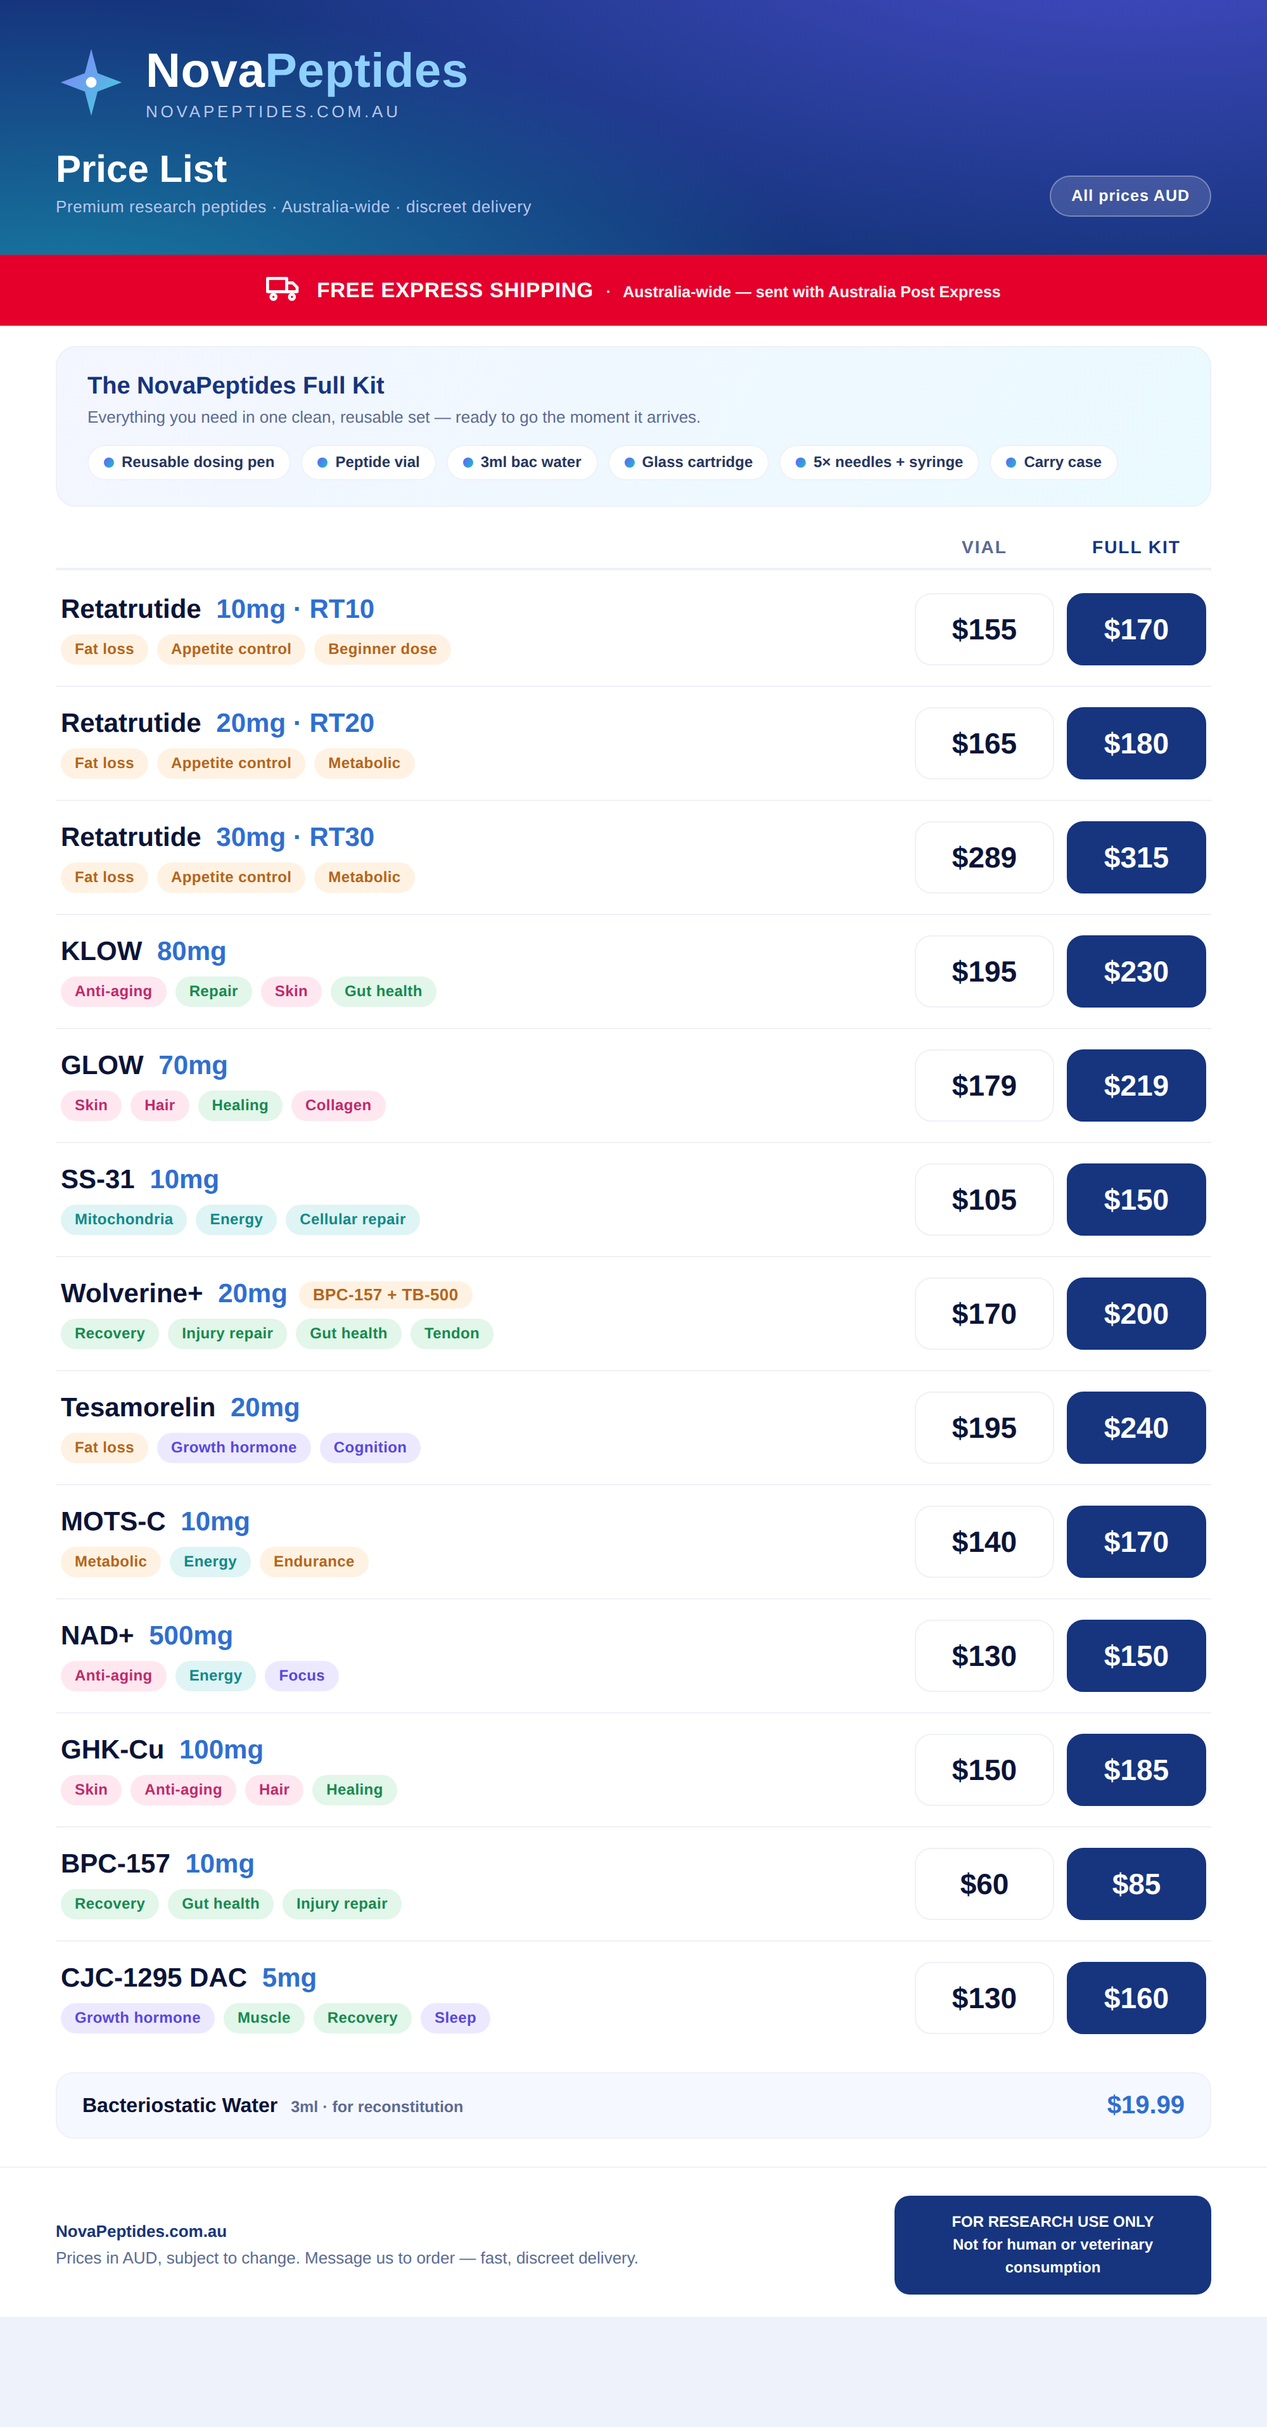
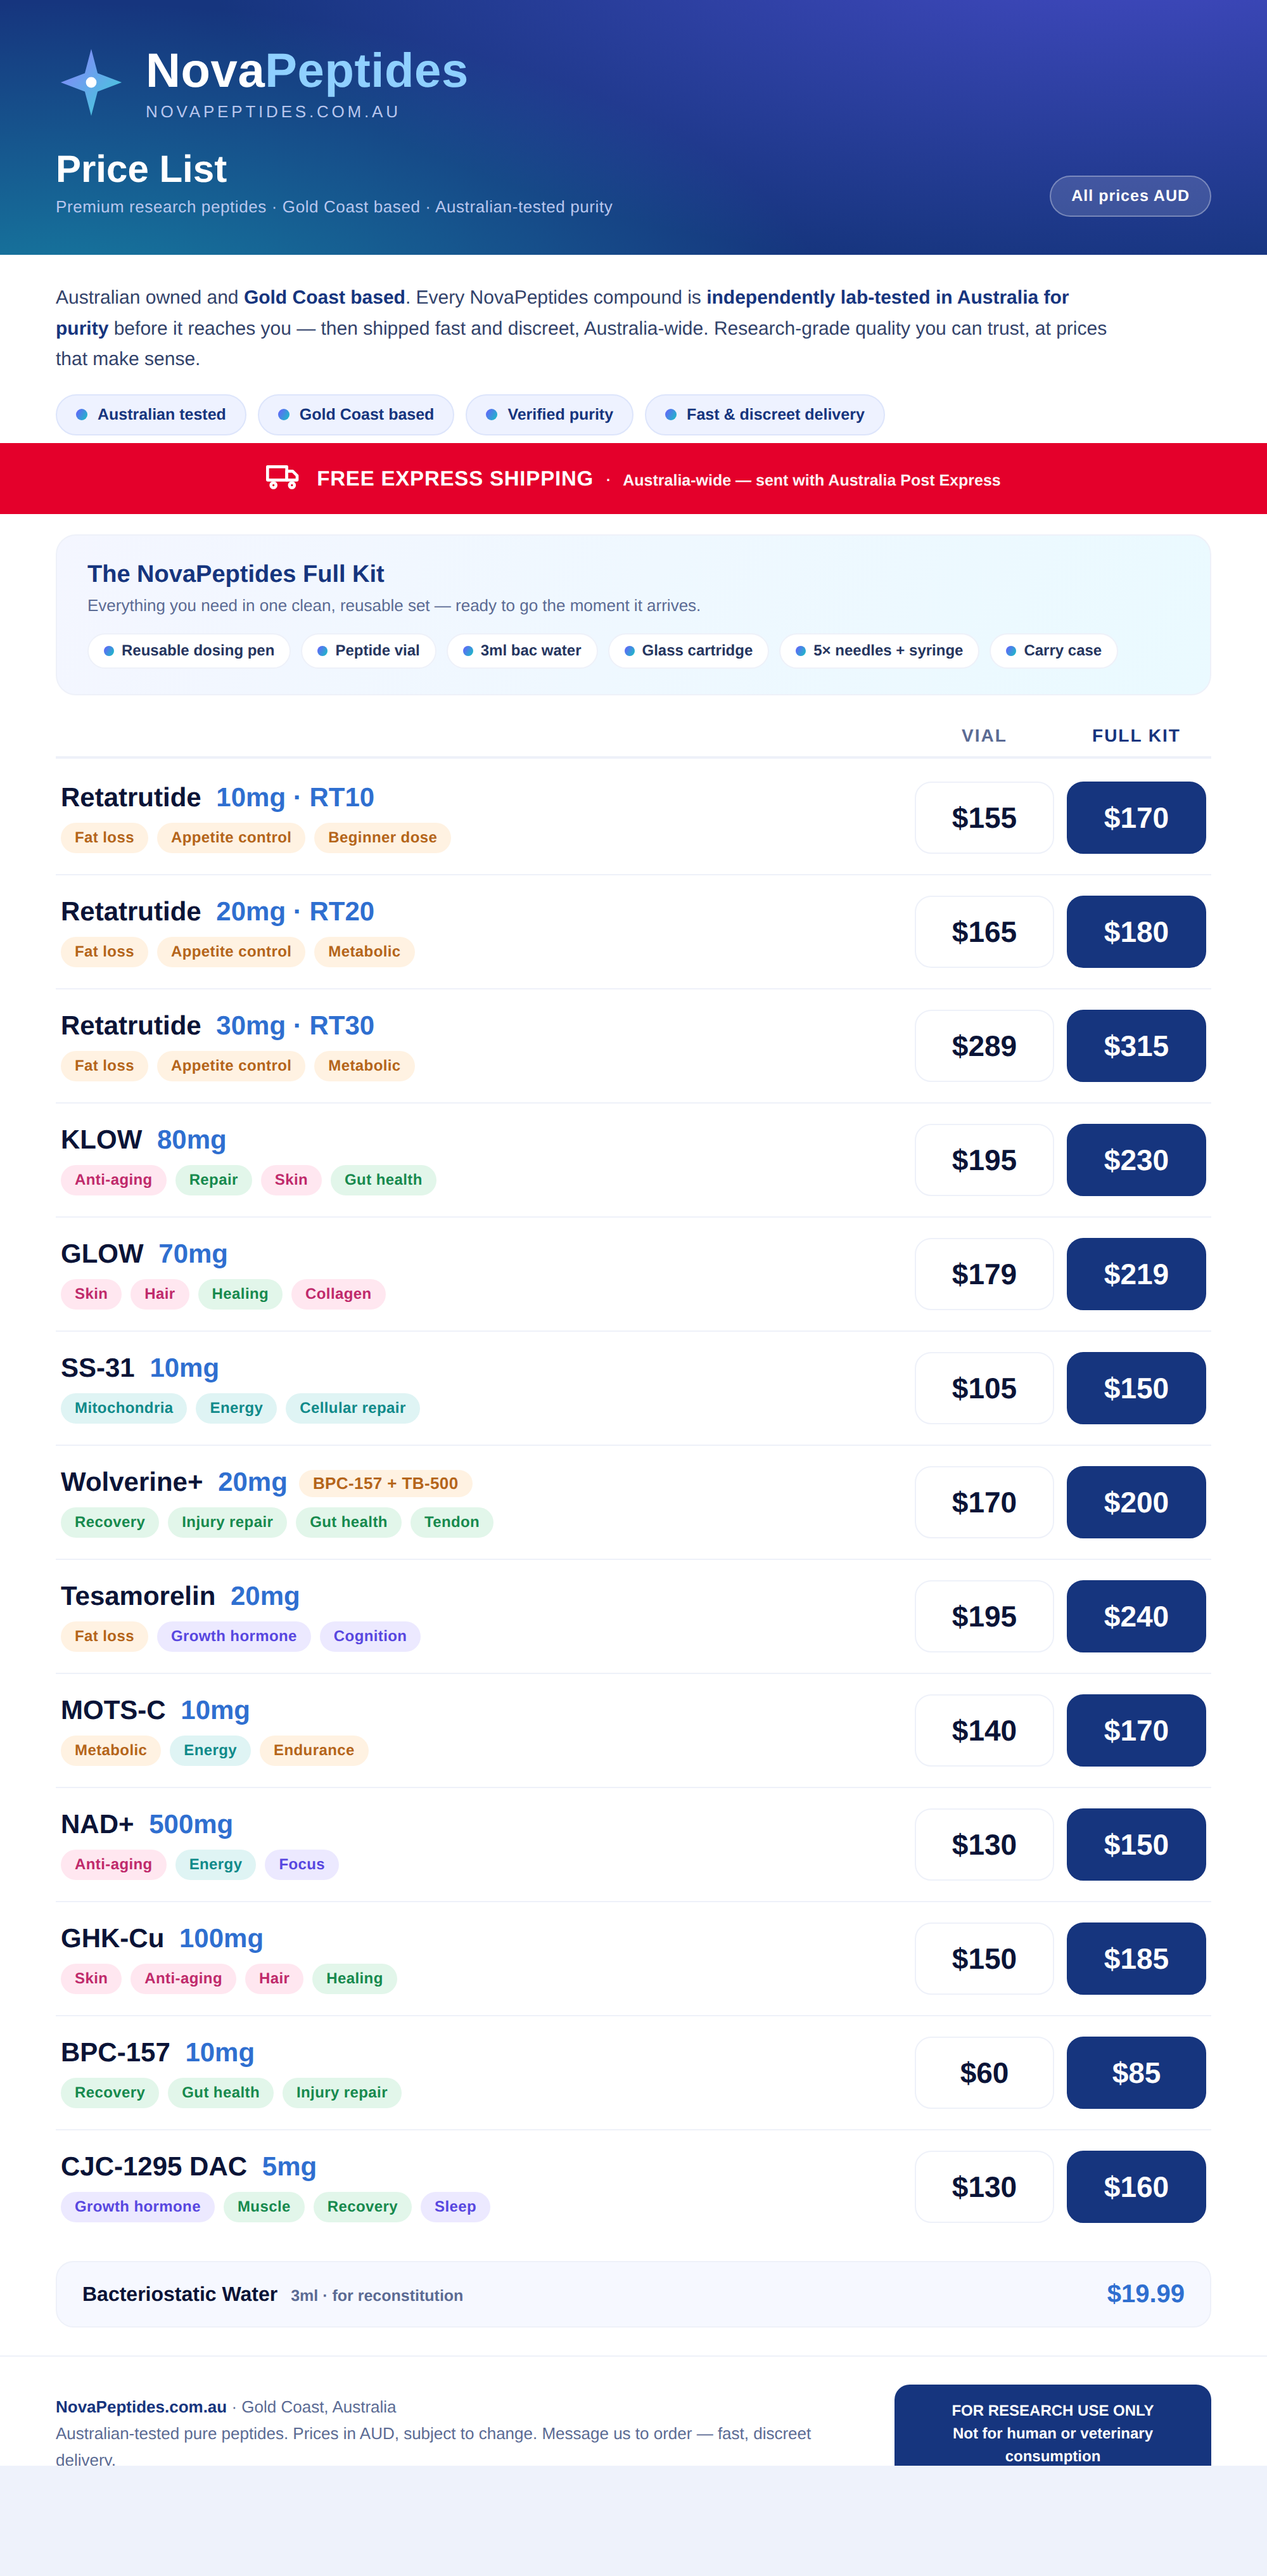
NovaPeptides price list: add intro description, Gold Coast + Australian-tested badges, refreshed shareable PNG
Claude-Session: https://claude.ai/code/session_011vwkpM9KQ6PKS1DsXGJwTK

diff --git a/pricing/price-list-v2.html b/pricing/price-list-v2.html
@@ -68,6 +68,15 @@
   .foot-l{font-size:13px;color:var(--mist);line-height:1.6}
   .foot-l b{color:var(--navy)}
   .ruo{background:var(--navy);color:#fff;border-radius:12px;padding:12px 18px;font-size:12px;font-weight:700;text-align:center;line-height:1.5;max-width:250px}
+
+  .lede{padding:22px 44px 6px}
+  .lede p{font-size:15px;color:#33436b;line-height:1.62;max-width:840px;margin:0}
+  .lede p b{color:var(--navy)}
+  .badges{display:flex;flex-wrap:wrap;gap:9px;margin-top:15px}
+  .badge{font-size:12.5px;font-weight:800;color:var(--navy);background:#eef2ff;border:1px solid #dde5fb;
+    border-radius:999px;padding:8px 15px;display:flex;align-items:center;gap:8px}
+  .badge::before{content:"";width:9px;height:9px;border-radius:50%;background:var(--grad)}
+  .htitle .s{max-width:520px}
 </style></head>
 <body>
   <div class="sheet">
@@ -80,10 +89,22 @@
         <div><h1>Nova<span class="p">Peptides</span></h1><div class="url">NovaPeptides.com.au</div></div>
       </div>
       <div class="htitle">
-        <div><div class="t">Price List</div><div class="s">Premium research peptides &middot; Australia-wide &middot; discreet delivery</div></div>
+        <div><div class="t">Price List</div><div class="s">Premium research peptides &middot; Gold Coast based &middot; Australian-tested purity</div></div>
         <div class="pill">All prices AUD</div>
       </div>
     </header>
+
+    <div class="lede">
+      <p>Australian owned and <b>Gold Coast based</b>. Every NovaPeptides compound is <b>independently lab-tested
+      in Australia for purity</b> before it reaches you &mdash; then shipped fast and discreet, Australia-wide.
+      Research-grade quality you can trust, at prices that make sense.</p>
+      <div class="badges">
+        <span class="badge">Australian tested</span>
+        <span class="badge">Gold Coast based</span>
+        <span class="badge">Verified purity</span>
+        <span class="badge">Fast &amp; discreet delivery</span>
+      </div>
+    </div>
 
     <div class="ship">
       <svg viewBox="0 0 24 24" fill="none" stroke="#fff" stroke-width="2" stroke-linecap="round" stroke-linejoin="round"><path d="M1 4h13v9H1z"/><path d="M14 7h4l3 3v3h-7z"/><circle cx="5" cy="16.5" r="1.7"/><circle cx="17.5" cy="16.5" r="1.7"/></svg>
@@ -159,7 +180,7 @@
     <div class="bac"><div class="n">Bacteriostatic Water <span>3ml &middot; for reconstitution</span></div><div class="pr">$19.99</div></div>
 
     <footer>
-      <div class="foot-l"><b>NovaPeptides.com.au</b><br>Prices in AUD, subject to change. Message us to order &mdash; fast, discreet delivery.</div>
+      <div class="foot-l"><b>NovaPeptides.com.au</b> &middot; Gold Coast, Australia<br>Australian-tested pure peptides. Prices in AUD, subject to change. Message us to order &mdash; fast, discreet delivery.</div>
       <div class="ruo">FOR RESEARCH USE ONLY<br>Not for human or veterinary consumption</div>
     </footer>
   </div>
